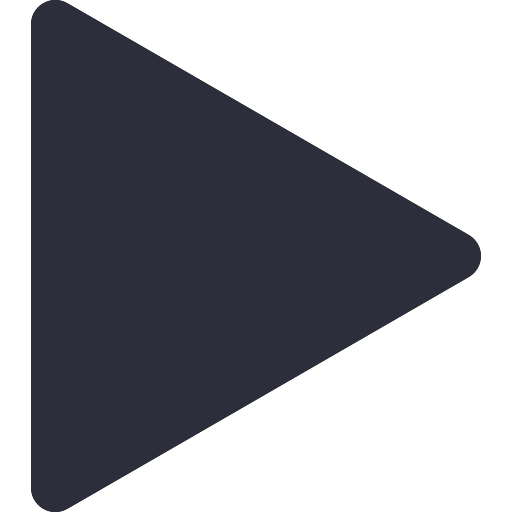
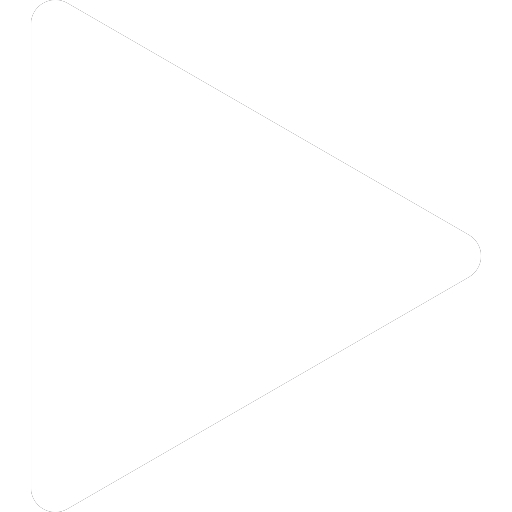
*Colors update *New stat button

diff --git a/src/main/java/com/example/pettimer/ActivityController.java b/src/main/java/com/example/pettimer/ActivityController.java
@@ -30,6 +30,9 @@ public class ActivityController implements Initializable {
     private Text secTime;
 
     @FXML
+    private ImageView statisticImage;
+
+    @FXML
     private ImageView stopImage;
 
     /*public DateTimeFormatter dtf = DateTimeFormatter.ofPattern("HH:mm:ss");
@@ -42,6 +45,11 @@ public class ActivityController implements Initializable {
     private int sec = 0;
 
     public ActivityController(){
+    }
+
+    @FXML
+    void statisticImageClicked(MouseEvent event) {
+
     }
 
     @FXML
@@ -62,17 +70,17 @@ public class ActivityController implements Initializable {
                         if(sec == 60)
                         {
                             min++;
-                            minTime.setText(min + ":");
+                            minTime.setText(":" + min);
                             sec = 0;
                         }
                         if(min == 60)
                         {
                             hours++;
-                            hTime.setText(hours + ":");
+                            hTime.setText(String.valueOf(hours));
                             min = 0;
                         }
                         sec++;
-                        secTime.setText(Integer.toString(sec));
+                        secTime.setText(":" + sec);
                     }
                     catch (Exception e)
                     {
